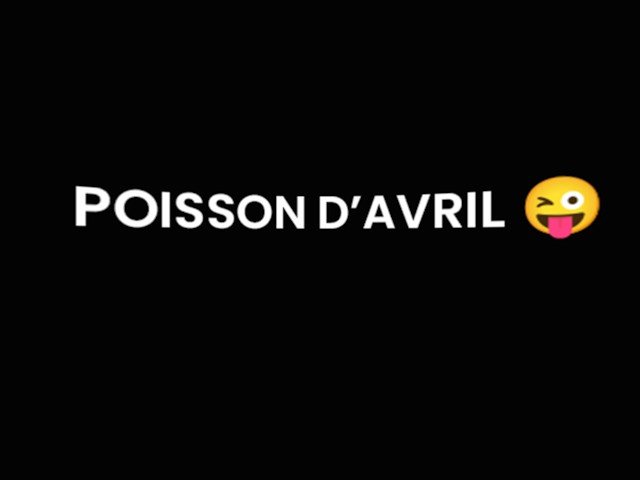
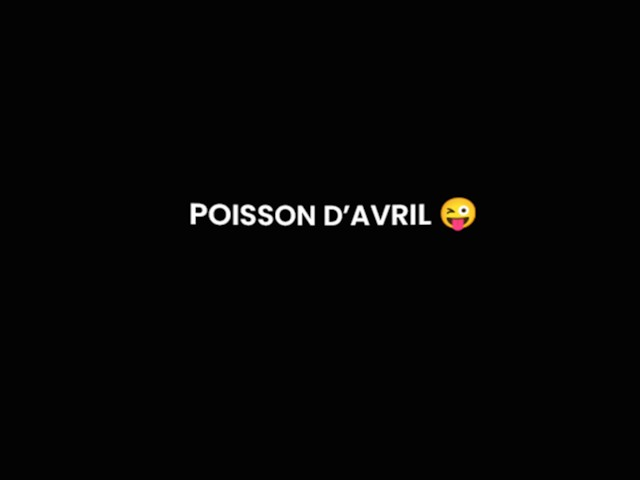
update

Changed region(s): [[0.0938, 0.375, 0.7812, 0.5], [0.8125, 0.3438, 0.9375, 0.5]]

diff --git a/P/skin.js b/P/skin.js
@@ -1,7 +1,7 @@
 // Garden Gnome Software - Skin
 // Pano2VR 7.1.8/20986
 // Filename: venis.ggsk
-// Generated 2026-04-01T09:18:55
+// Generated 2026-04-01T09:30:29
 
 function pano2vrSkin(player,base) {
 	player.addVariable('vis_sounds_splashscreen', 2, false, { ignoreInState: 1  });
@@ -19090,10 +19090,10 @@ alert("The current view has been copied.");
 					((player.getVariableValue('resp_phone') == false))
 				)
 			) {
-				let pdfInterval_9 = setInterval(() => {
+				let pdfInterval_11 = setInterval(() => {
 					if (skin._pdf_hs_popup_pdf__pdf.contentWindow.PDFViewerApplication && skin._pdf_hs_popup_pdf__pdf.contentWindow.PDFViewerApplication.initialized && skin._pdf_hs_popup_pdf__pdf.contentWindow.PDFViewerApplication.downloadComplete && skin._pdf_hs_popup_pdf__pdf.contentWindow.PDFViewerApplication.pdfViewer._pageViewsReady) {
 						skin._pdf_hs_popup_pdf.ggSetCurrentPage(Number(player._(me.hotspot.target)));
-						clearInterval(pdfInterval_9);
+						clearInterval(pdfInterval_11);
 					}
 				}, 50);
 			}
@@ -19218,10 +19218,10 @@ alert("The current view has been copied.");
 					((player.getVariableValue('resp_phone') == true))
 				)
 			) {
-				let pdfInterval_10 = setInterval(() => {
+				let pdfInterval_12 = setInterval(() => {
 					if (skin._pdf_popup_phone__pdf.contentWindow.PDFViewerApplication && skin._pdf_popup_phone__pdf.contentWindow.PDFViewerApplication.initialized && skin._pdf_popup_phone__pdf.contentWindow.PDFViewerApplication.downloadComplete && skin._pdf_popup_phone__pdf.contentWindow.PDFViewerApplication.pdfViewer._pageViewsReady) {
 						skin._pdf_popup_phone.ggSetCurrentPage(Number(player._(me.hotspot.target)));
-						clearInterval(pdfInterval_10);
+						clearInterval(pdfInterval_12);
 					}
 				}, 50);
 			}

diff --git a/P/index.html b/P/index.html
@@ -36,9 +36,9 @@
 	</head>
 	<body>
 <!-- - - - - - - 8<- - - - - - cut here - - - - - 8<- - - - - - - -->
-		<script type="text/javascript" src="pano2vr_player.js?ts=35137002">
+		<script type="text/javascript" src="pano2vr_player.js?ts=35830792">
 		</script>
-		<script type="text/javascript" src="skin.js?ts=35137002">
+		<script type="text/javascript" src="skin.js?ts=35830792">
 		</script>
 		<script src="https://www.youtube.com/iframe_api"></script>
 		<script src="https://player.vimeo.com/api/player.js"></script>
@@ -91,12 +91,12 @@
 			pano=new pano2vrPlayer("container");
 			pano.startNode = startNode;
 			pano.startView = startView;
-			pano.setQueryParameter("ts=35137002")
+			pano.setQueryParameter("ts=35830792")
 			// add the skin object
 			skin=new pano2vrSkin(pano);
 			// load the configuration
 			window.addEventListener("load", function() {
-				pano.readConfigUrlAsync("pano.xml?ts=35137002");
+				pano.readConfigUrlAsync("pano.xml?ts=35830792");
 			});
 			if (window.navigator.userAgent.match(/Safari/i)) {
 				// fix for white borders, rotation on iPhone